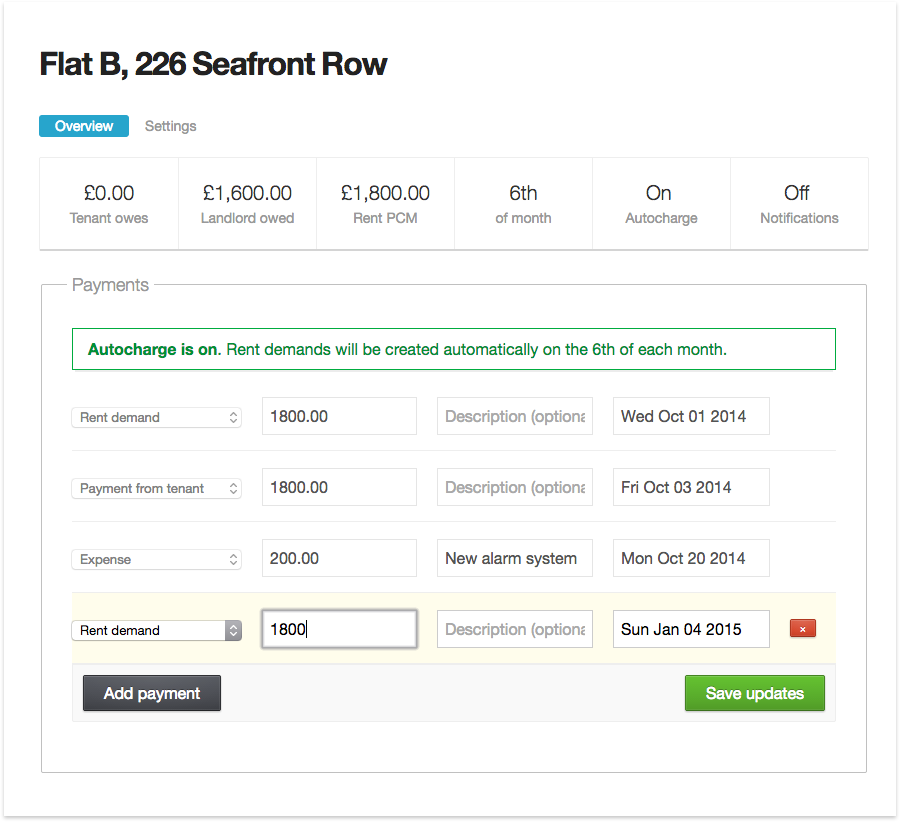
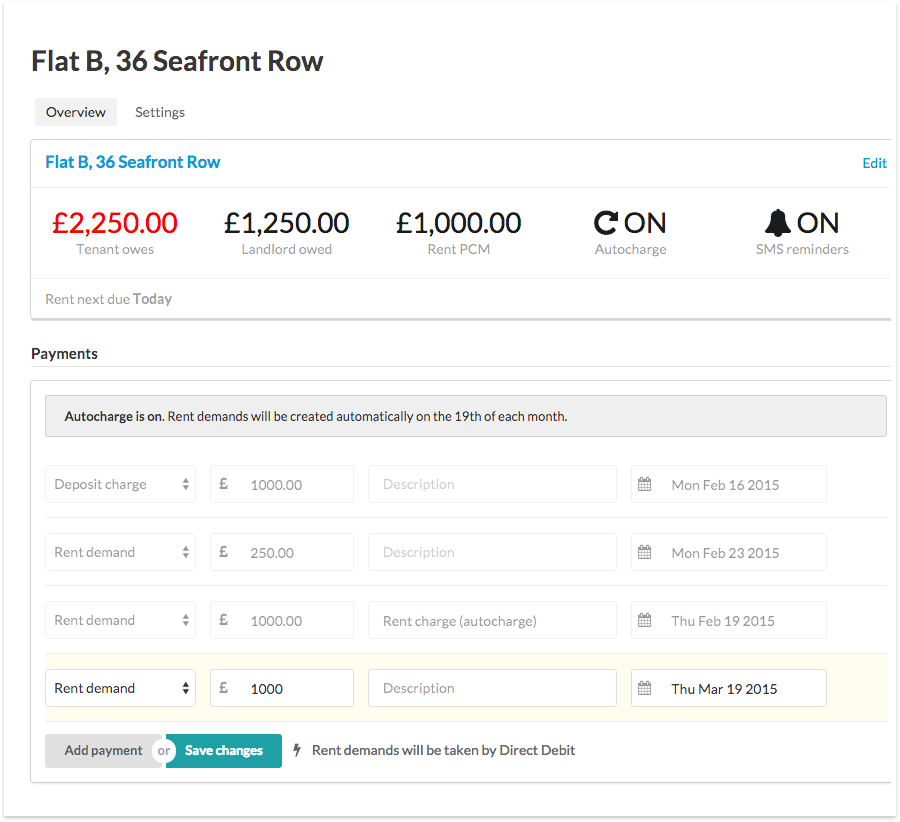
new ui

diff --git a/css/index.css b/css/index.css
@@ -12,7 +12,7 @@ body{background-color:rgb(255, 255, 255);font:400 15px/1.63 'Open Sans';color:rg
 
 .container-1{position:absolute;top:902px;left:0;right:0;z-index:16;width:960px;height:602px;margin:0 auto;}
 
-.container-2{position:absolute;top:22px;left:0;right:0;z-index:7;width:960px;height:880px;margin:0 auto;background-image:url('../images/Screen-Shot-2015-01-04-at-14.21.32.png');background-repeat:no-repeat;background-size:contain;background-position:50% 390px;}
+.container-2{position:absolute;top:22px;left:0;right:0;z-index:7;width:960px;height:880px;margin:0 auto;background-image:url('../images/hero.png');background-repeat:no-repeat;background-size:contain;background-position:50% 390px;}
 
 .container-3{position:relative;float:left;clear:both;width:100%;height:823px;margin-top:610px;border-top:1px solid rgb(222, 222, 222);border-bottom:1px solid rgb(222, 222, 222);background-color:rgb(241, 241, 241);overflow:hidden;}
 
